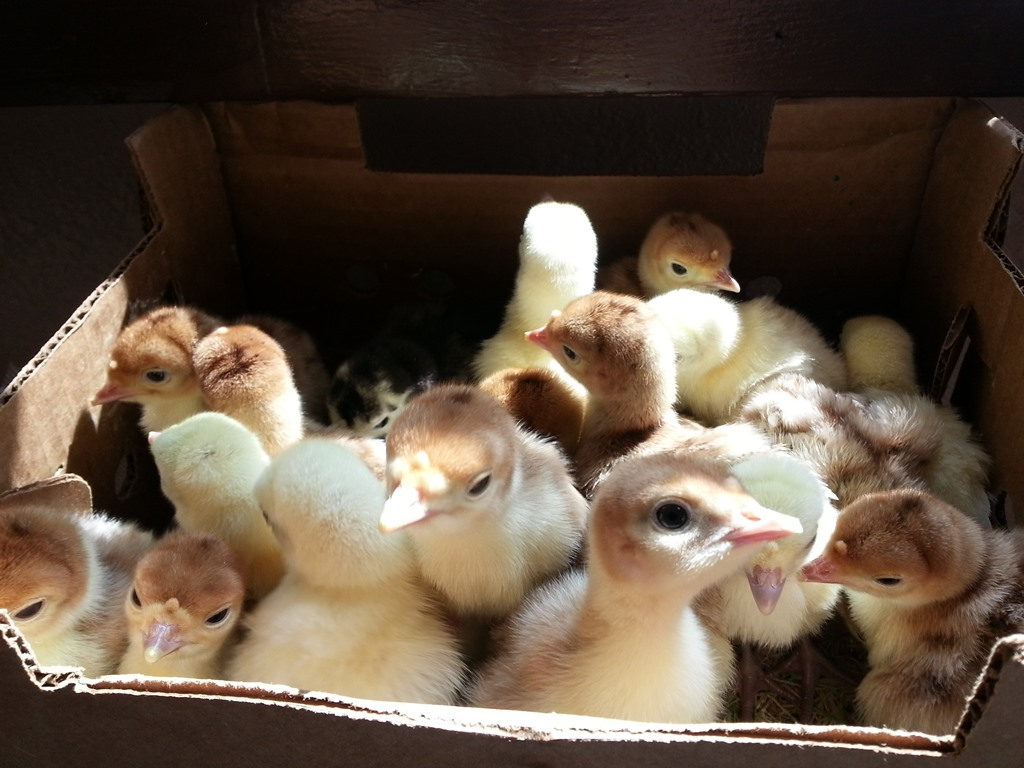
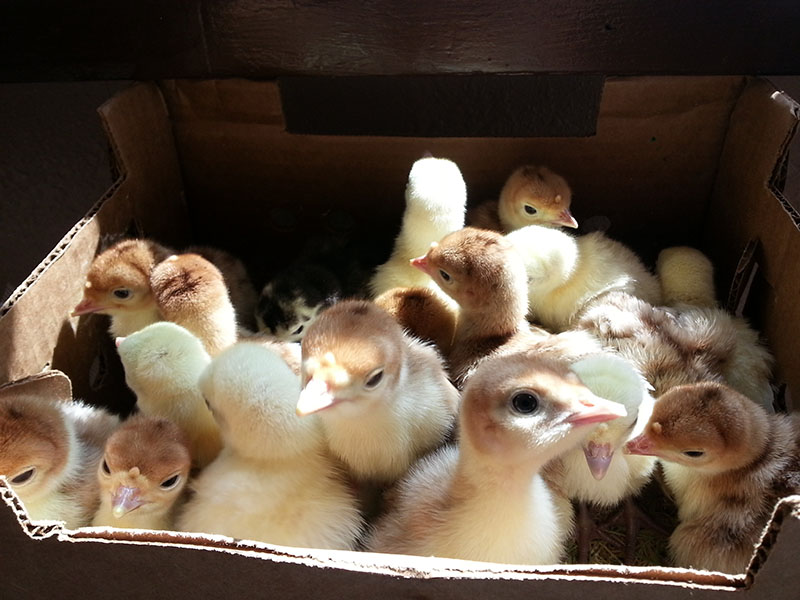
Resize turkey pics.

diff --git a/public/css/styles.css b/public/css/styles.css
@@ -78,9 +78,8 @@ li a:hover {
     text-align: center;
 }
 .turkey img, .cat img, .chicken img, .bee img{
-    padding: 20px;
-    max-height: 750px;
-    max-width: 750px;
+    padding: 25px;
+    max-height: 400px;
 }
 /* Start Garden Page */
 .garden p{
